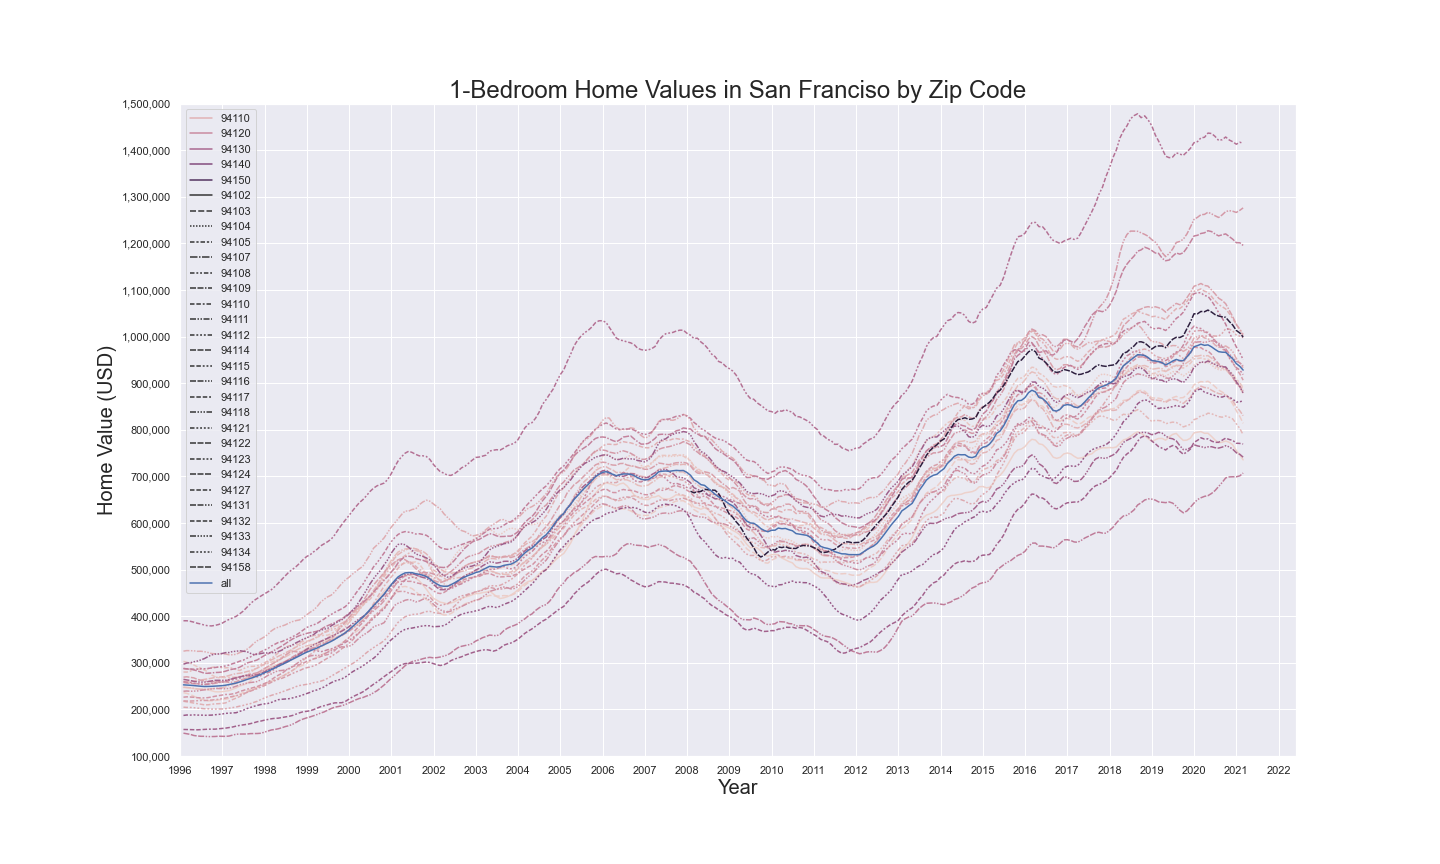
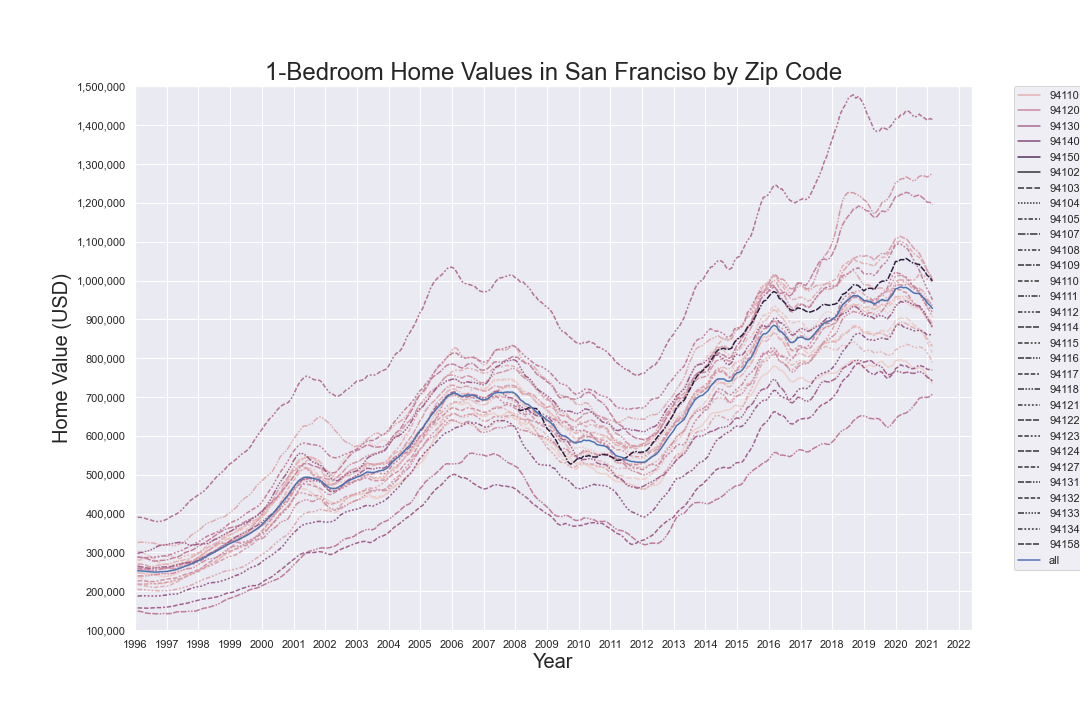
refactor visualize data function

diff --git a/code/functions.py b/code/functions.py
@@ -44,8 +44,21 @@ def melt_data(df):
     return melted
 
 
-def visualize_data(df):
-    pass
+def visualize_data(df, sf_all, bedrooms):
+    fig, ax = plt.subplots(figsize=(15,10))
+    ax.set_title(f'{bedrooms}-Bedroom Home Values in San Franciso by Zip Code', size=24)
+    sns.lineplot(data=df, x=df.date, y=df.value, ax=ax, hue='zipcode', style='zipcode')
+    sns.lineplot(data=sf_all, x=sf_all.index, y=sf_all.value, ax=ax, color = 'b', label='all')
+    ax.set_xlabel('Year',  size=20)
+    ax.set_ylabel('Home Value (USD)', size=20)
+    ax.set_xlim(pd.Timestamp('1996'), pd.Timestamp('2022-05-31'))
+    ax.xaxis.set_major_locator(years)
+    ax.xaxis.set_major_formatter(years_fmt)
+    ax.set_yticks(np.linspace(1e5,1.5e6,15))
+    ax.set_ylim((1e5, 1.5e6))
+    ax.get_yaxis().set_major_formatter(ticker.FuncFormatter(lambda x, p: format(int(x), ',')))
+    plt.legend(bbox_to_anchor=(1.05, 1), loc=2, borderaxespad=0.)
+    plt.savefig(f'images/{bedrooms}_bdrm_home_values.png')
 
 
 def create_df_dict(df):
